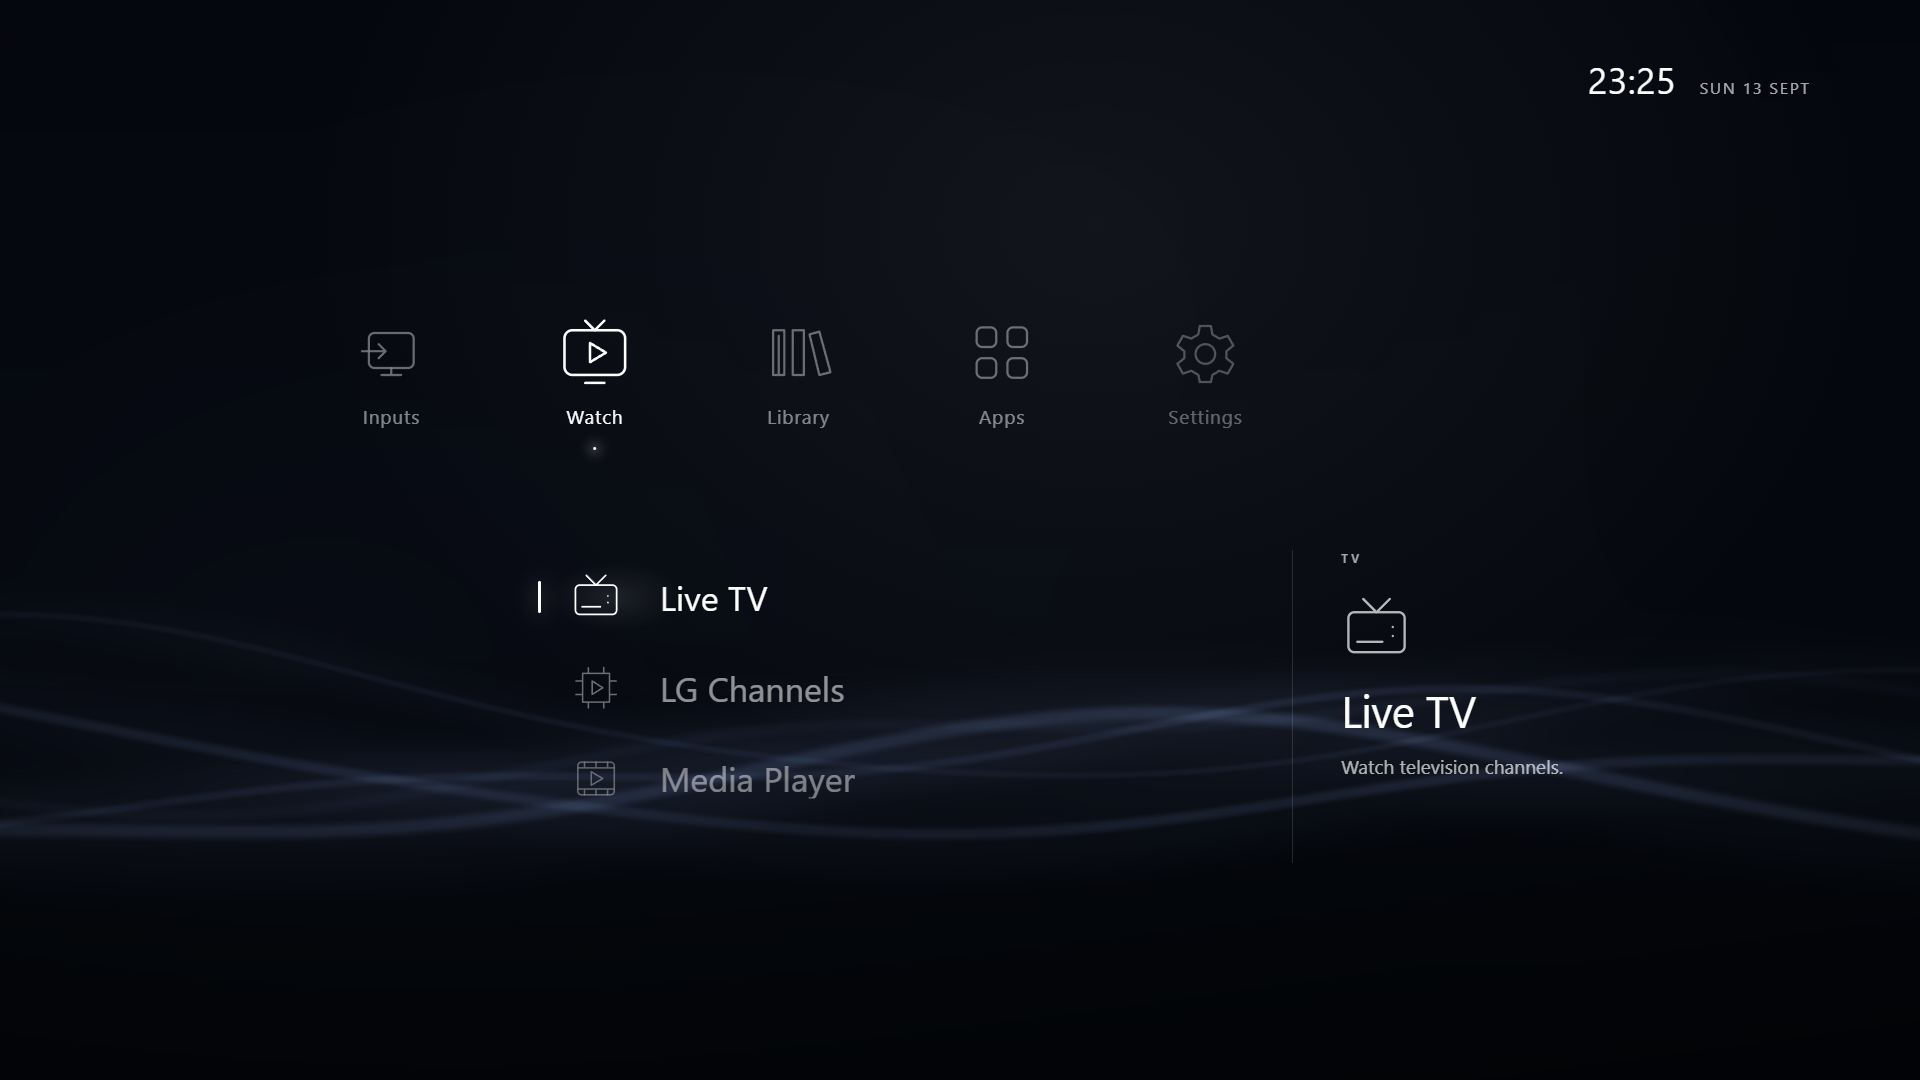
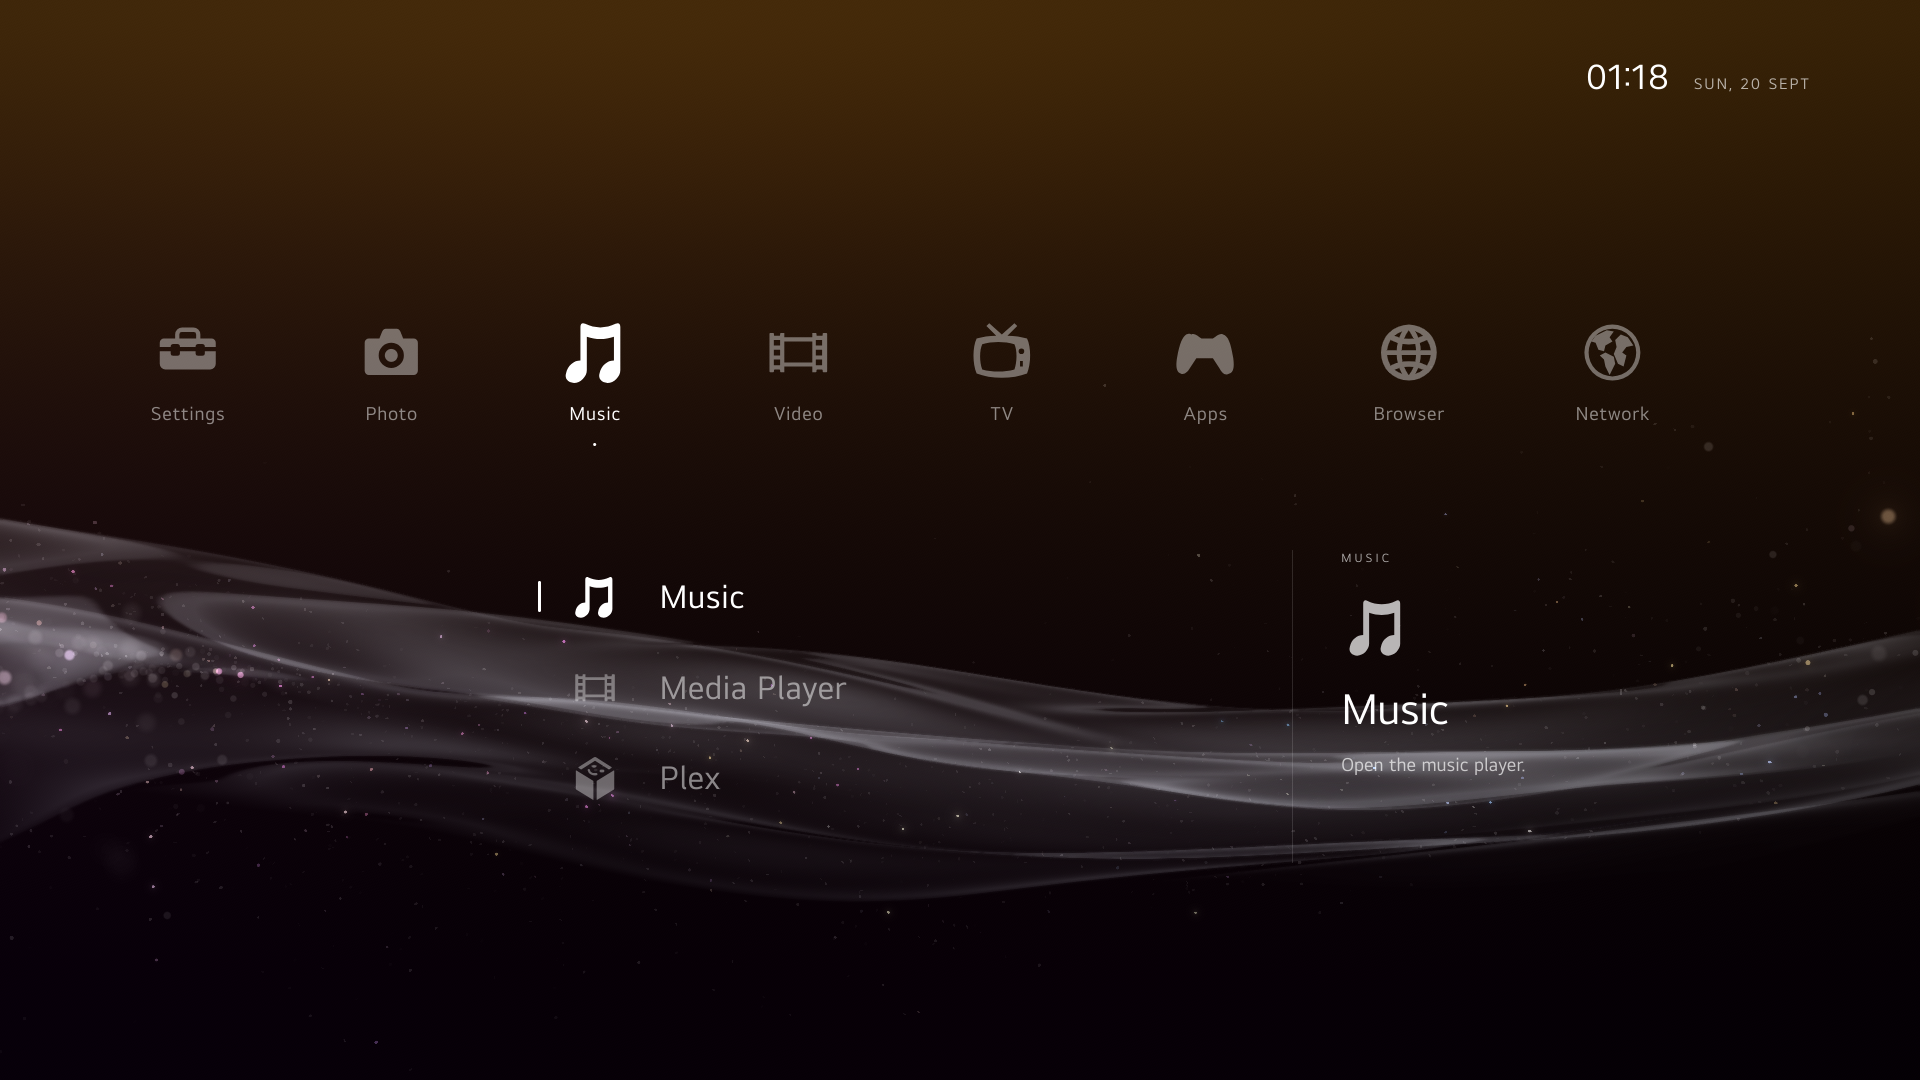
Rewrite README and refresh TV screenshot

diff --git a/README.md b/README.md
@@ -1,54 +1,63 @@
 # LG-XMB
 
-LG-XMB replaces the home screen on an LG webOS TV with an XMB-style menu for apps and inputs.
+LG-XMB is an XMB-style home screen for LG webOS TVs, inspired by the PS3.
 
-![Home screen](docs/images/home.png)
+![LG-XMB running on an LG C5](docs/images/home.png)
 
-The app is called **Home** on the TV. You can install it as a separate launcher,
-or use a root-only bind mount to replace LG Home. Installing the IPK alone doesn't
-replace the Home screen.
+## Features
 
-## What you need
+- Launch installed apps and switch between TV inputs.
+- Choose which categories apps appear in, sort by name or recent use, and hide apps without uninstalling them.
+- Show cached HDMI pictures, with optional live previews.
+- Adjust wave colours, speed and rendering quality, including monthly colours and day/night changes.
+- Use your own navigation sounds and background music.
 
-The interface targets **webOS 22–26**. The **LG C5 running webOS 10.3.1** is the
-hardware-tested target. Native features need testing on other TVs. See
-[Compatibility](docs/COMPATIBILITY.md) for the limits.
+Left and Right change categories. Up and Down select an item. Press OK to open
+it, hold OK for options, and press Back to return. The Magic Remote pointer
+works too.
 
-Replacing LG Home requires an existing root SSH connection. The optional HDMI
-capture helper also needs Homebrew Channel and Python 3.7 or newer on the TV.
-Don't enable Developer Mode on a rooted TV. A non-root Developer Mode install
-can run the standalone launcher, but can't replace Home or run the helper.
+## TV support
+
+The interface targets **webOS 22–26**. Hardware testing has been on the
+**LG C5 running webOS 10.3.1**. Native features still need testing on other TVs.
+See [Compatibility](docs/COMPATIBILITY.md) for the platform details and known limits.
+
+Replacing LG Home requires root. Cached HDMI pictures also need Homebrew
+Channel with an elevated service and Python 3.7 or newer on the TV. Animated
+backgrounds need WebGL 2; otherwise the menu uses a static background.
+
+Use your existing root SSH connection. **Don't enable Developer Mode on a rooted TV.**
 
 ## Install
 
 Download an IPK from [Releases](https://github.com/Ripthulhu/LG-XMB/releases),
-or build one below. [Installation](docs/INSTALLATION.md) shows how to transfer
-and install it over your existing SSH connection. You can also use
-[webOS Dev Manager](https://github.com/webosbrew/dev-manager-desktop/releases).
-Open **Home** to test navigation and app launching before replacing LG Home.
+or build one below.
 
-[Replacing LG Home](docs/HOME-TAKEOVER.md) covers the manual copy, bind mount,
-startup hook and recovery. It works from the installed IPK, so release users
-don't need to build the source. Keep working SSH access throughout setup.
+1. Follow [Installation](docs/INSTALLATION.md) to transfer the IPK and install it over SSH.
+2. Open **Home** from the TV's apps. Test navigation, app launching and HDMI.
+3. Follow [Replacing LG Home](docs/HOME-TAKEOVER.md) to make it the Home screen and keep it after a reboot.
 
-## Use
+Installing the IPK adds a standalone launcher. Replacing LG Home is a separate
+manual setup using a copy of that installed app. The guide covers the startup
+hook and restoring stock Home. Keep SSH access working throughout setup.
 
-Left and Right change categories. Up and Down select an item. Press OK to open
-it, or hold OK to open [item options](docs/ITEM-OPTIONS.md). Pointer navigation
-works too.
+When updating, follow the [Home update steps](docs/HOME-TAKEOVER.md#updating-the-payload).
+Installing a new IPK doesn't update the Home replacement copy.
 
-**Settings** contains appearance, wave, audio and Back-button options. The waves
-use WebGL 2. Without it, the menu uses a static background. There's no media
-player or emulator built into LG-XMB; media shortcuts open the TV's apps.
+## Customise
 
-HDMI names follow the TV's input labels where its service permits the read.
-Cached pictures need the helper and appear after an eligible input has been
-viewed. Live previews are optional because they can change HDR mode.
+Open **Settings → Appearance** for themes, wave colours and rendering options.
+[Wave settings](docs/WEBGL2.md#settings) explains the controls and automatic colour changes.
 
-You can add your own [menu sounds](docs/MENU-SOUNDS.md) and
-[background MP3](docs/MUSIC.md). Neither is required, and no recordings are
-included. See [Menu categories](docs/MENU-CATEGORIES.md) for the shortcuts and
-[Wave settings](docs/WEBGL2.md#settings) for the renderer controls.
+Hold OK on an app to change its category, sorting or visibility.
+[Item options](docs/ITEM-OPTIONS.md) covers those controls and restoring hidden apps.
+
+**Settings → Sound** controls [menu sounds](docs/MENU-SOUNDS.md) and
+[background music](docs/MUSIC.md). Supply your own audio files; recordings aren't included.
+
+**Settings → Input previews** selects cached pictures or live video.
+Cached pictures appear after you've viewed an eligible HDMI input.
+Live previews can trigger HDR mode changes.
 
 ## Build
 
@@ -62,39 +71,27 @@ npm run package
 npm run verify:package
 ```
 
-The IPK and `SHA256SUMS` are written to `dist/`. These commands don't install
-anything on a TV.
+The IPK and `SHA256SUMS` are written to `dist/`. The repository includes the
+shaders and wave data needed for a normal build.
 
-All application source, shaders and runtime data needed to build the waves are
-in this repo. You don't need a firmware dump, a separate renderer archive or an
-import step. `npm ci` installs the pinned development tools.
+[Building and testing](docs/BUILDING.md) covers platform setup, package checks
+and the test suites.
+
+## Development
 
 For a desktop preview, run `npm run preview` and open
 <http://127.0.0.1:8765>. TV actions are simulated there.
-[Building and testing](docs/BUILDING.md) covers the remaining commands.
 
-To change the menu, icons, settings or background, start with the
-[code map](docs/ARCHITECTURE.md). It identifies each feature's source files and
-the behaviour to preserve. [Contributing](CONTRIBUTING.md) covers review and
-validation.
+The app uses plain JavaScript, CSS and SVG icons. The [code map](docs/ARCHITECTURE.md)
+shows where to change the menu, settings, icons and renderer.
+Read [Contributing](CONTRIBUTING.md) before submitting changes.
 
-## Notes
-
-The package ID is still `org.local.openxmb.c5` so existing installations can
-upgrade in place. It isn't the project name.
-
-The Home bind mount is separate from IPK installation. Updating the IPK doesn't
-update that copied payload automatically. The two installations need to match
-for helper-managed sound links to work.
-
-Don't treat a browser test as proof that native TV services work. App launches,
-HDMI capture, standby and recovery need testing on the actual firmware.
+The package ID remains `org.local.openxmb.c5` so existing installations can upgrade in place.
 
 ## Licence
 
-Project code is distributed under GPL version 3. Files marked
-`GPL-3.0-or-later` retain that permission. Third-party code and extracted
-reference data have separate notices in [THIRD-PARTY-NOTICES.md](THIRD-PARTY-NOTICES.md).
-The project licence doesn't relicense Sony's extracted data.
+Project code is distributed under [GPL version 3](LICENSE). Files marked
+`GPL-3.0-or-later` retain that permission. Third-party code and extracted PS3
+data have separate terms in [THIRD-PARTY-NOTICES.md](THIRD-PARTY-NOTICES.md).
 
 LG-XMB isn't affiliated with LG or Sony.
